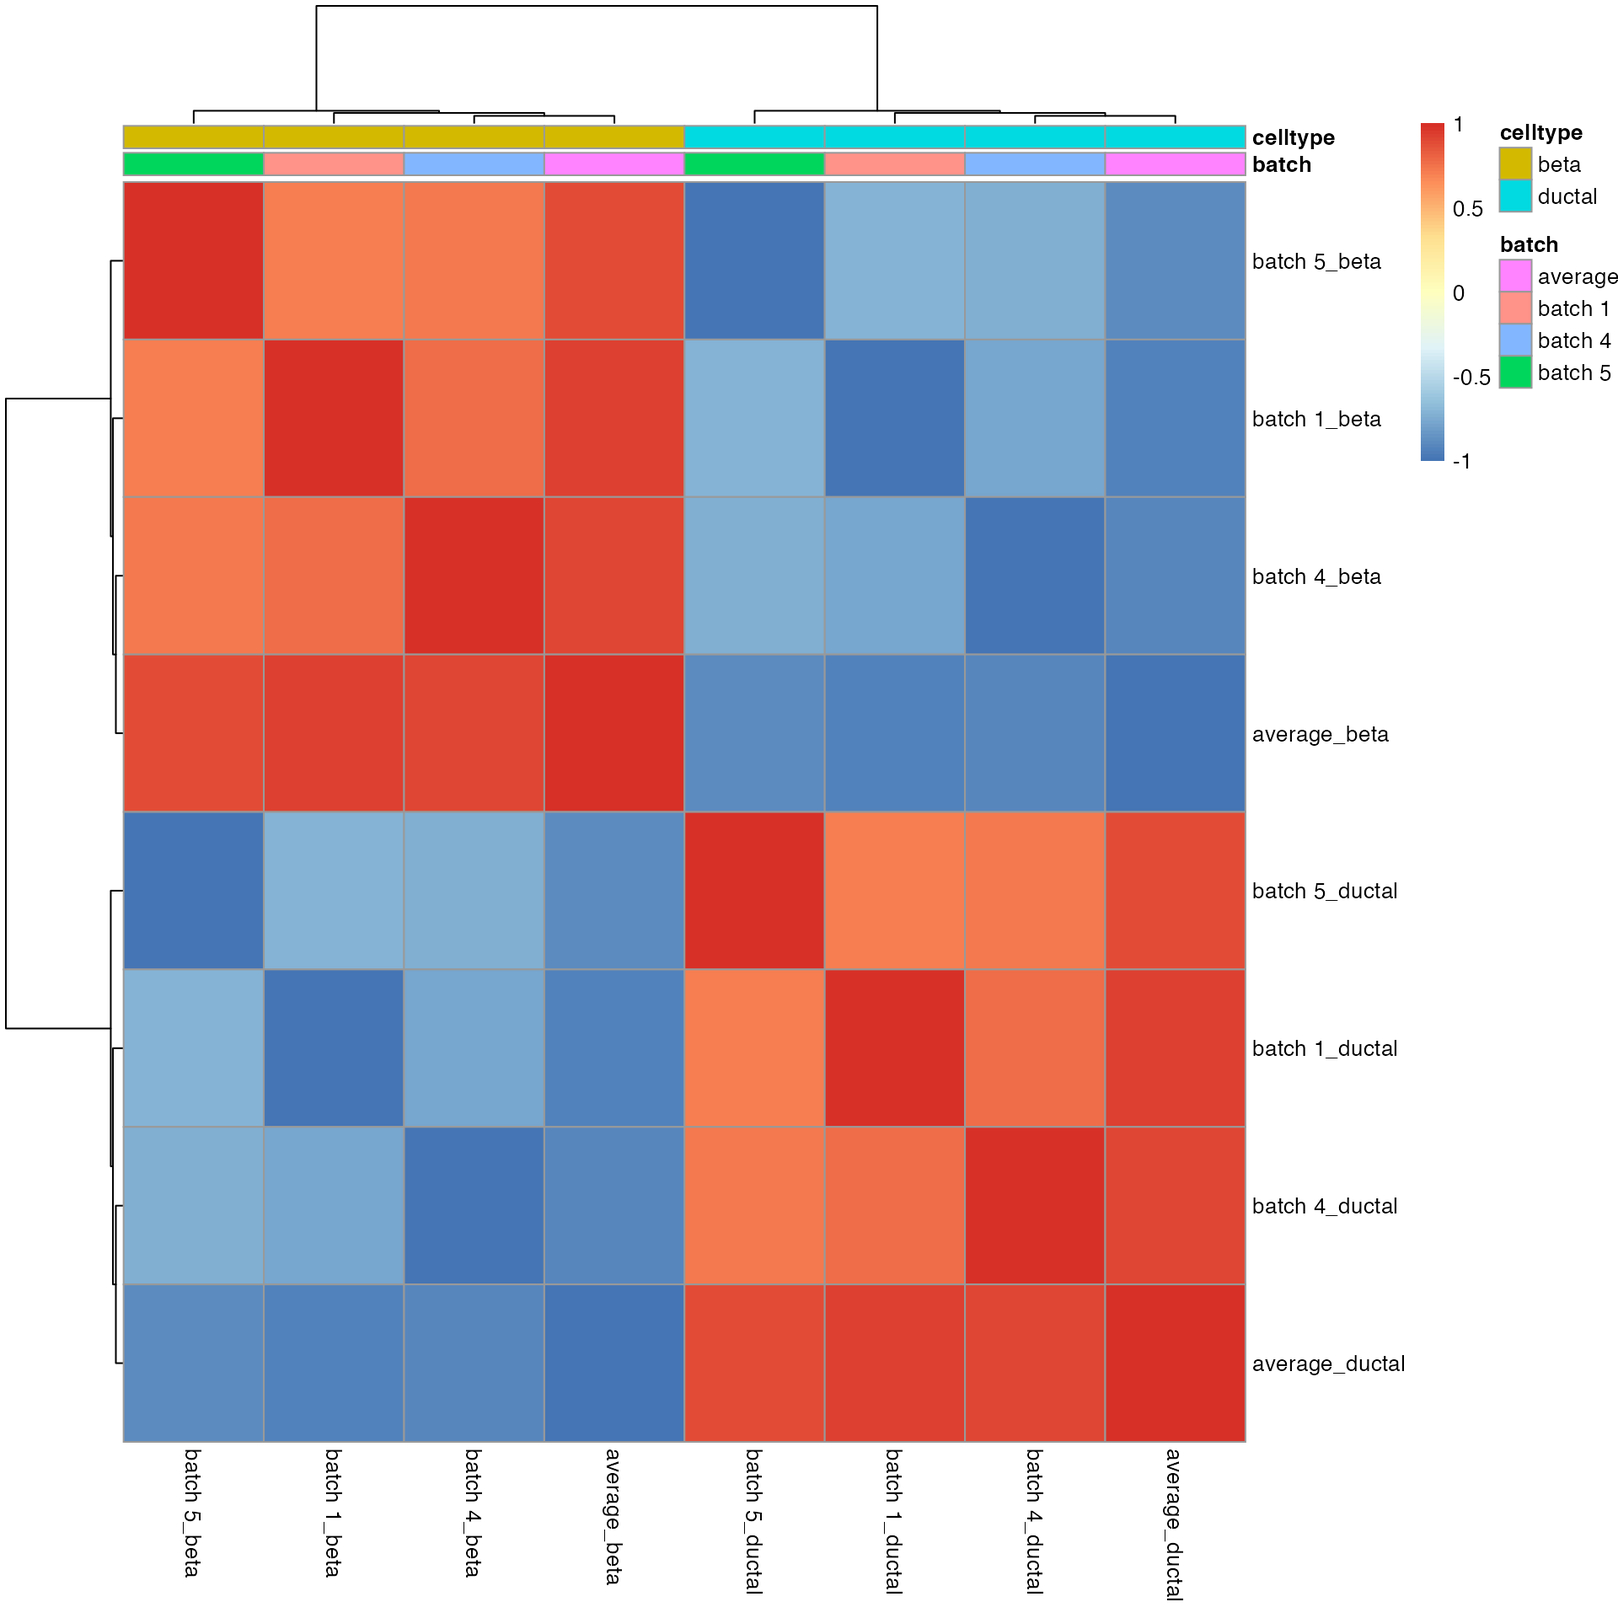
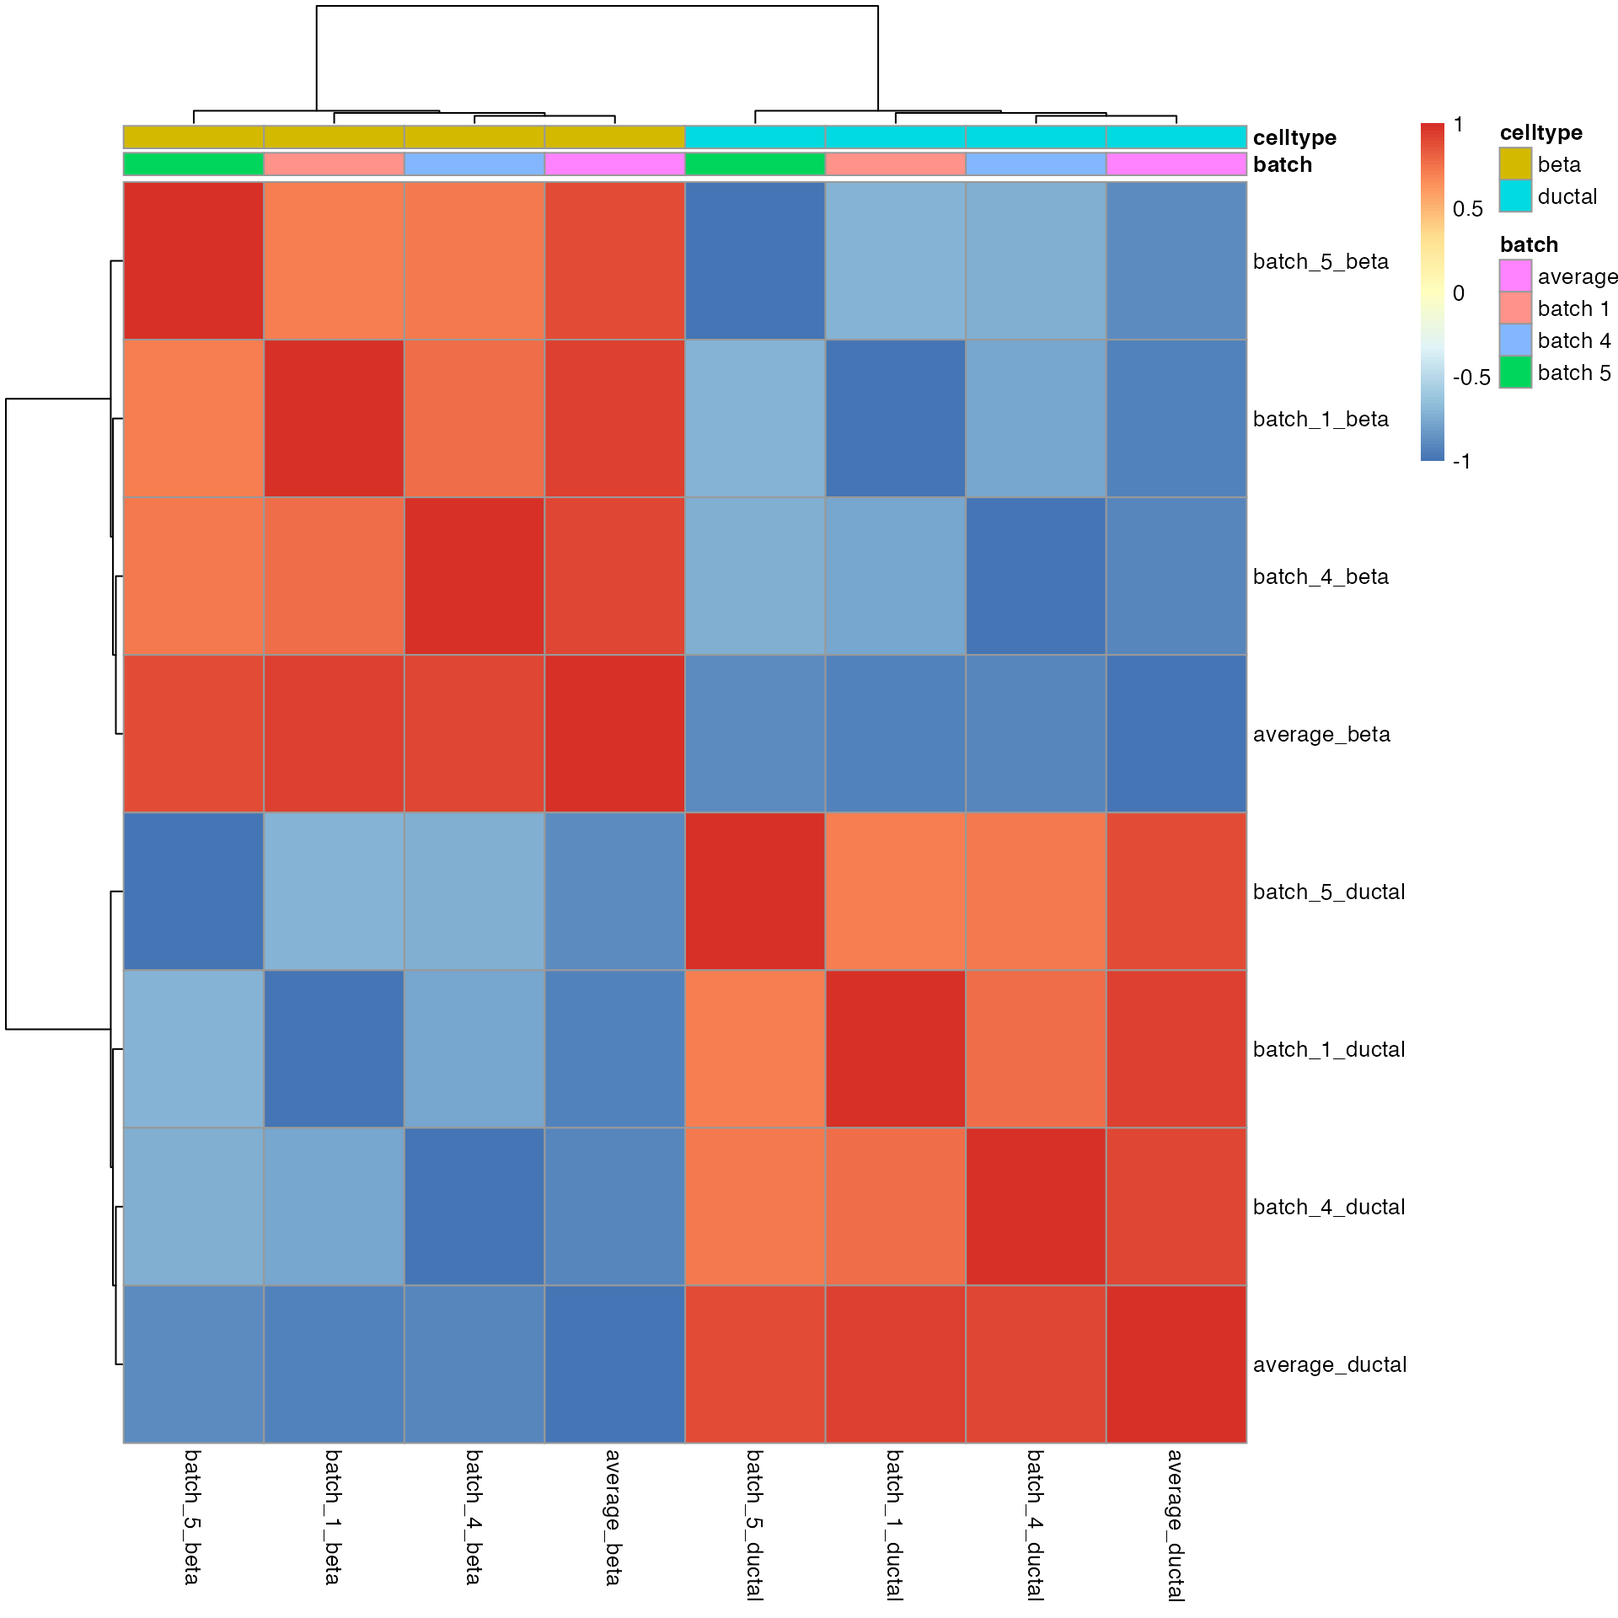
Built site for Cepo: 0.99.0@70fa1fe

diff --git a/articles/cepo.html b/articles/cepo.html
@@ -31,7 +31,7 @@
       </button>
       <span class="navbar-brand">
         <a class="navbar-link" href="../index.html">Cepo</a>
-        <span class="version label label-default" data-toggle="tooltip" data-placement="bottom" title="Released version">1.0.0</span>
+        <span class="version label label-default" data-toggle="tooltip" data-placement="bottom" title="Released version">0.99.0</span>
       </span>
     </div>
 
@@ -266,11 +266,11 @@ remotes::install_github("PYangLab/Cepo")</a></code></pre>
 ## TDRD9              1         0         0
 ## TNNI3              1         0         0
 ## ...              ...       ...       ...
-## STK24              0      1.00         1
-## CPVL               0      0.99         1
-## BBOX1-AS1          0      1.00         1
-## COL4A2             0      1.00         1
-## KCNK1              0      1.00         1
+## STK24              0         1         1
+## CPVL               0         1         1
+## BBOX1-AS1          0         1         1
+## COL4A2             0         1         1
+## KCNK1              0         1         1
 ## 
 ## attr(,"class")
 ## [1] "Cepo" "list"</code></pre>
@@ -391,14 +391,15 @@ remotes::install_github("PYangLab/Cepo")</a></code></pre>
 <pre><code>## [1] "batch 1" "batch 4" "batch 5" "average"</code></pre>
 <p>We can confirm that the <code>Cepo</code> statistics from across batches demonstrate a strong correlation. The clustered correlation heatmap below shows that there is high correlation between the scores of the same cell type across batches.</p>
 <div class="sourceCode" id="cb45"><pre class="downlit sourceCode r">
-<code class="sourceCode R"><span class="va">idx</span> <span class="op">=</span> <span class="fu"><a href="https://rdrr.io/r/base/funprog.html">Reduce</a></span><span class="op">(</span><span class="va">intersect</span>, <span class="fu"><a href="https://rdrr.io/r/base/lapply.html">lapply</a></span><span class="op">(</span><span class="va">ds_res_batches</span>, <span class="kw">function</span><span class="op">(</span><span class="va">x</span><span class="op">)</span> <span class="fu"><a href="https://rdrr.io/r/base/names.html">names</a></span><span class="op">(</span><span class="va">x</span><span class="op">$</span><span class="va">stats</span><span class="op">@</span><span class="va">listData</span><span class="op">[[</span><span class="fl">1</span><span class="op">]</span><span class="op">]</span><span class="op">)</span><span class="op">)</span><span class="op">)</span>
+<code class="sourceCode R"><span class="va">idx</span> <span class="op">=</span> <span class="fu"><a href="https://rdrr.io/r/base/funprog.html">Reduce</a></span><span class="op">(</span><span class="va">intersect</span>, <span class="fu"><a href="https://rdrr.io/r/base/lapply.html">lapply</a></span><span class="op">(</span><span class="va">ds_res_batches</span>, <span class="kw">function</span><span class="op">(</span><span class="va">x</span><span class="op">)</span> <span class="fu"><a href="https://rdrr.io/r/base/names.html">names</a></span><span class="op">(</span><span class="va">x</span><span class="op">$</span><span class="va">stats</span><span class="op">[</span>, <span class="fl">1</span><span class="op">]</span><span class="op">)</span><span class="op">)</span><span class="op">)</span>
 
-<span class="va">combinedRes</span> <span class="op">=</span> <span class="fu"><a href="https://rdrr.io/r/base/do.call.html">do.call</a></span><span class="op">(</span><span class="va">cbind</span>, <span class="fu"><a href="https://rdrr.io/r/base/lapply.html">lapply</a></span><span class="op">(</span><span class="va">ds_res_batches</span>, <span class="kw">function</span><span class="op">(</span><span class="va">x</span><span class="op">)</span> 
-  <span class="fu"><a href="https://rdrr.io/r/base/do.call.html">do.call</a></span><span class="op">(</span><span class="va">cbind</span>, <span class="va">x</span><span class="op">$</span><span class="va">stats</span><span class="op">@</span><span class="va">listData</span><span class="op">)</span><span class="op">[</span><span class="va">idx</span>,<span class="op">]</span>
-<span class="op">)</span><span class="op">)</span>
+<span class="va">combinedRes</span> <span class="op">=</span> <span class="fu"><a href="https://rdrr.io/r/base/as.data.frame.html">as.data.frame</a></span><span class="op">(</span><span class="fu"><a href="https://rdrr.io/r/base/do.call.html">do.call</a></span><span class="op">(</span><span class="va">cbind</span>, <span class="fu"><a href="https://rdrr.io/r/base/lapply.html">lapply</a></span><span class="op">(</span><span class="va">ds_res_batches</span>, <span class="kw">function</span><span class="op">(</span><span class="va">x</span><span class="op">)</span> 
+  <span class="va">x</span><span class="op">$</span><span class="va">stats</span><span class="op">[</span><span class="va">idx</span>,<span class="op">]</span>
+<span class="op">)</span><span class="op">)</span><span class="op">)</span>
+
 <span class="va">batches</span> <span class="op">=</span> <span class="fu"><a href="https://rdrr.io/r/base/rep.html">rep</a></span><span class="op">(</span><span class="fu"><a href="https://rdrr.io/r/base/names.html">names</a></span><span class="op">(</span><span class="va">ds_res_batches</span><span class="op">)</span>, <span class="fu"><a href="https://rdrr.io/r/base/lapply.html">sapply</a></span><span class="op">(</span><span class="va">ds_res_batches</span>, <span class="kw">function</span><span class="op">(</span><span class="va">x</span><span class="op">)</span> <span class="fu"><a href="https://rdrr.io/r/base/length.html">length</a></span><span class="op">(</span><span class="va">x</span><span class="op">$</span><span class="va">stats</span><span class="op">)</span><span class="op">)</span><span class="op">)</span>
 <span class="va">cty</span> <span class="op">=</span> <span class="fu"><a href="https://rdrr.io/r/base/unlist.html">unlist</a></span><span class="op">(</span><span class="fu"><a href="https://rdrr.io/r/base/lapply.html">lapply</a></span><span class="op">(</span><span class="va">ds_res_batches</span>, <span class="kw">function</span><span class="op">(</span><span class="va">x</span><span class="op">)</span> <span class="fu"><a href="https://rdrr.io/r/base/names.html">names</a></span><span class="op">(</span><span class="va">x</span><span class="op">$</span><span class="va">stats</span><span class="op">)</span><span class="op">)</span>, use.name <span class="op">=</span> <span class="cn">FALSE</span><span class="op">)</span>
-<span class="fu"><a href="https://rdrr.io/r/base/colnames.html">colnames</a></span><span class="op">(</span><span class="va">combinedRes</span><span class="op">)</span> <span class="op">=</span> <span class="fu"><a href="https://rdrr.io/r/base/paste.html">paste0</a></span><span class="op">(</span><span class="va">batches</span>, <span class="st">"_"</span>, <span class="va">cty</span><span class="op">)</span>
+<span class="fu"><a href="https://rdrr.io/r/base/colnames.html">colnames</a></span><span class="op">(</span><span class="va">combinedRes</span><span class="op">)</span> <span class="op">=</span> <span class="fu"><a href="https://rdrr.io/r/base/grep.html">gsub</a></span><span class="op">(</span><span class="st">"[.]"</span>, <span class="st">"_"</span>, <span class="fu"><a href="https://rdrr.io/r/base/colnames.html">colnames</a></span><span class="op">(</span><span class="va">combinedRes</span><span class="op">)</span><span class="op">)</span>
   
 <span class="va">annot</span> <span class="op">=</span> <span class="fu"><a href="https://rdrr.io/r/base/data.frame.html">data.frame</a></span><span class="op">(</span>
   batch <span class="op">=</span> <span class="va">batches</span>,
@@ -447,7 +448,7 @@ remotes::install_github("PYangLab/Cepo")</a></code></pre>
 <span class="fu"><a href="https://rdrr.io/r/base/names.html">names</a></span><span class="op">(</span><span class="va">hallmarkList</span><span class="op">)</span> <span class="op">&lt;-</span> <span class="fu"><a href="https://rdrr.io/r/base/lapply.html">lapply</a></span><span class="op">(</span><span class="va">hallmark</span><span class="op">@</span><span class="va">.Data</span>, <span class="kw">function</span><span class="op">(</span><span class="va">x</span><span class="op">)</span> <span class="va">x</span><span class="op">@</span><span class="va">setName</span><span class="op">)</span>
 
 <span class="va">fgseaRes</span> <span class="op">&lt;-</span> <span class="fu"><a href="https://rdrr.io/pkg/fgsea/man/fgsea.html">fgsea</a></span><span class="op">(</span>pathways <span class="op">=</span> <span class="va">hallmarkList</span>, 
-                  stats    <span class="op">=</span> <span class="fu"><a href="https://rdrr.io/r/base/sort.html">sort</a></span><span class="op">(</span><span class="va">ds_res_batches</span><span class="op">$</span><span class="va">average</span><span class="op">$</span><span class="va">stats</span><span class="op">@</span><span class="va">listData</span><span class="op">$</span><span class="va">beta</span><span class="op">)</span>,
+                  stats    <span class="op">=</span> <span class="fu"><a href="https://rdrr.io/r/base/sort.html">sort</a></span><span class="op">(</span><span class="va">ds_res_batches</span><span class="op">$</span><span class="va">average</span><span class="op">$</span><span class="va">stats</span><span class="op">[</span>,<span class="st">"beta"</span><span class="op">]</span><span class="op">)</span>,
                   minSize <span class="op">=</span> <span class="fl">15</span>,
                   maxSize <span class="op">=</span> <span class="fl">500</span><span class="op">)</span></code></pre></div>
 <pre><code>## Warning in preparePathwaysAndStats(pathways, stats, minSize, maxSize, gseaParam, : There are ties in the preranked stats (1% of the list).
@@ -461,15 +462,15 @@ remotes::install_github("PYangLab/Cepo")</a></code></pre>
 <div class="sourceCode" id="cb51"><pre class="downlit sourceCode r">
 <code class="sourceCode R"><span class="va">enriched_beta</span><span class="op">[</span><span class="fl">1</span><span class="op">:</span><span class="fl">5</span><span class="op">]</span></code></pre></div>
 <pre><code>##       HALLMARK_PANCREAS_BETA_CELLS   HALLMARK_TNFA_SIGNALING_VIA_NFKB 
-##                           8.420216                           7.007616 
+##                           8.420216                           6.799112 
 ## HALLMARK_INTERFERON_GAMMA_RESPONSE           HALLMARK_APICAL_JUNCTION 
-##                           6.203303                           2.380783 
+##                           6.236667                           2.516462 
 ##           HALLMARK_MITOTIC_SPINDLE 
-##                           2.158610</code></pre>
+##                           2.292588</code></pre>
 <p>Finally, we can visualise the enrichment using the <code>plotEnrichment</code> function from the <code>fgsea</code> package.</p>
 <div class="sourceCode" id="cb53"><pre class="downlit sourceCode r">
 <code class="sourceCode R"><span class="fu"><a href="https://rdrr.io/pkg/fgsea/man/plotEnrichment.html">plotEnrichment</a></span><span class="op">(</span><span class="va">hallmarkList</span><span class="op">[[</span><span class="st">"HALLMARK_PANCREAS_BETA_CELLS"</span><span class="op">]</span><span class="op">]</span>,
-               <span class="fu"><a href="https://rdrr.io/r/base/sort.html">sort</a></span><span class="op">(</span><span class="va">ds_res_batches</span><span class="op">$</span><span class="va">average</span><span class="op">$</span><span class="va">stats</span><span class="op">@</span><span class="va">listData</span><span class="op">$</span><span class="va">beta</span><span class="op">)</span><span class="op">)</span> <span class="op">+</span> <span class="fu">labs</span><span class="op">(</span>title<span class="op">=</span><span class="st">"HALLMARK_PANCREAS_BETA_CELLS"</span><span class="op">)</span></code></pre></div>
+               <span class="fu"><a href="https://rdrr.io/r/base/sort.html">sort</a></span><span class="op">(</span><span class="va">ds_res_batches</span><span class="op">$</span><span class="va">average</span><span class="op">$</span><span class="va">stats</span><span class="op">[</span>, <span class="st">"beta"</span><span class="op">]</span><span class="op">)</span><span class="op">)</span> <span class="op">+</span> <span class="fu">labs</span><span class="op">(</span>title<span class="op">=</span><span class="st">"HALLMARK_PANCREAS_BETA_CELLS"</span><span class="op">)</span></code></pre></div>
 <p><img src="cepo_files/figure-html/unnamed-chunk-12-1.png" width="480"></p>
 </div>
 </div>
@@ -561,7 +562,7 @@ remotes::install_github("PYangLab/Cepo")</a></code></pre>
 ## [17] GenomeInfoDb_1.28.4         IRanges_2.26.0             
 ## [19] S4Vectors_0.30.0            BiocGenerics_0.38.0        
 ## [21] MatrixGenerics_1.4.3        matrixStats_0.60.1         
-## [23] Cepo_1.0.0                  BiocStyle_2.20.2           
+## [23] Cepo_0.99.0                 BiocStyle_2.20.2           
 ## 
 ## loaded via a namespace (and not attached):
 ##   [1] backports_1.2.1           fastmatch_1.1-3          

diff --git a/reference/Cepo.html b/reference/Cepo.html
@@ -73,7 +73,7 @@ out-of-memory computations. See vignette." />
       </button>
       <span class="navbar-brand">
         <a class="navbar-link" href="../index.html">Cepo</a>
-        <span class="version label label-default" data-toggle="tooltip" data-placement="bottom" title="Released version">1.0.0</span>
+        <span class="version label label-default" data-toggle="tooltip" data-placement="bottom" title="Released version">0.99.0</span>
       </span>
     </div>
 

diff --git a/articles/index.html b/articles/index.html
@@ -71,7 +71,7 @@
       </button>
       <span class="navbar-brand">
         <a class="navbar-link" href="../index.html">Cepo</a>
-        <span class="version label label-default" data-toggle="tooltip" data-placement="bottom" title="Released version">1.0.0</span>
+        <span class="version label label-default" data-toggle="tooltip" data-placement="bottom" title="Released version">0.99.0</span>
       </span>
     </div>
 

diff --git a/news/index.html b/news/index.html
@@ -71,7 +71,7 @@
       </button>
       <span class="navbar-brand">
         <a class="navbar-link" href="../index.html">Cepo</a>
-        <span class="version label label-default" data-toggle="tooltip" data-placement="bottom" title="Released version">1.0.0</span>
+        <span class="version label label-default" data-toggle="tooltip" data-placement="bottom" title="Released version">0.99.0</span>
       </span>
     </div>
 

diff --git a/reference/cellbench.html b/reference/cellbench.html
@@ -72,7 +72,7 @@
       </button>
       <span class="navbar-brand">
         <a class="navbar-link" href="../index.html">Cepo</a>
-        <span class="version label label-default" data-toggle="tooltip" data-placement="bottom" title="Released version">1.0.0</span>
+        <span class="version label label-default" data-toggle="tooltip" data-placement="bottom" title="Released version">0.99.0</span>
       </span>
     </div>
 

diff --git a/reference/index.html b/reference/index.html
@@ -71,7 +71,7 @@
       </button>
       <span class="navbar-brand">
         <a class="navbar-link" href="../index.html">Cepo</a>
-        <span class="version label label-default" data-toggle="tooltip" data-placement="bottom" title="Released version">1.0.0</span>
+        <span class="version label label-default" data-toggle="tooltip" data-placement="bottom" title="Released version">0.99.0</span>
       </span>
     </div>
 

diff --git a/reference/plotDensities.html b/reference/plotDensities.html
@@ -72,7 +72,7 @@
       </button>
       <span class="navbar-brand">
         <a class="navbar-link" href="../index.html">Cepo</a>
-        <span class="version label label-default" data-toggle="tooltip" data-placement="bottom" title="Released version">1.0.0</span>
+        <span class="version label label-default" data-toggle="tooltip" data-placement="bottom" title="Released version">0.99.0</span>
       </span>
     </div>
 

diff --git a/reference/sce_pancreas.html b/reference/sce_pancreas.html
@@ -72,7 +72,7 @@
       </button>
       <span class="navbar-brand">
         <a class="navbar-link" href="../index.html">Cepo</a>
-        <span class="version label label-default" data-toggle="tooltip" data-placement="bottom" title="Released version">1.0.0</span>
+        <span class="version label label-default" data-toggle="tooltip" data-placement="bottom" title="Released version">0.99.0</span>
       </span>
     </div>
 

diff --git a/reference/setCepoBPPARAM.html b/reference/setCepoBPPARAM.html
@@ -72,7 +72,7 @@
       </button>
       <span class="navbar-brand">
         <a class="navbar-link" href="../index.html">Cepo</a>
-        <span class="version label label-default" data-toggle="tooltip" data-placement="bottom" title="Released version">1.0.0</span>
+        <span class="version label label-default" data-toggle="tooltip" data-placement="bottom" title="Released version">0.99.0</span>
       </span>
     </div>
 

diff --git a/reference/topGenes.html b/reference/topGenes.html
@@ -72,7 +72,7 @@
       </button>
       <span class="navbar-brand">
         <a class="navbar-link" href="../index.html">Cepo</a>
-        <span class="version label label-default" data-toggle="tooltip" data-placement="bottom" title="Released version">1.0.0</span>
+        <span class="version label label-default" data-toggle="tooltip" data-placement="bottom" title="Released version">0.99.0</span>
       </span>
     </div>
 

diff --git a/404.html b/404.html
@@ -71,7 +71,7 @@
       </button>
       <span class="navbar-brand">
         <a class="navbar-link" href="index.html">Cepo</a>
-        <span class="version label label-default" data-toggle="tooltip" data-placement="bottom" title="Released version">1.0.0</span>
+        <span class="version label label-default" data-toggle="tooltip" data-placement="bottom" title="Released version">0.99.0</span>
       </span>
     </div>
 

diff --git a/LICENSE-text.html b/LICENSE-text.html
@@ -71,7 +71,7 @@
       </button>
       <span class="navbar-brand">
         <a class="navbar-link" href="index.html">Cepo</a>
-        <span class="version label label-default" data-toggle="tooltip" data-placement="bottom" title="Released version">1.0.0</span>
+        <span class="version label label-default" data-toggle="tooltip" data-placement="bottom" title="Released version">0.99.0</span>
       </span>
     </div>
 
